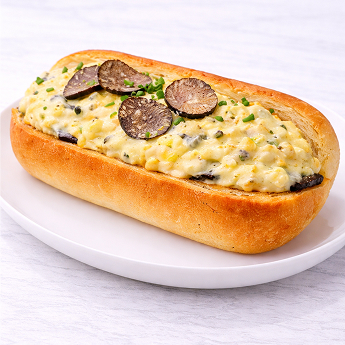
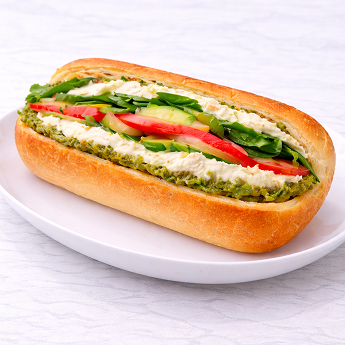
detail.js에 문제있음!!!!

diff --git a/index.html b/index.html
@@ -194,42 +194,42 @@
                     <div class="swiper-wrapper">
                         <div class="swiper-slide">
                             <figure>
-                                <img src="./img/best1.jpg" alt="Maple Bacon B.L.T sandwich">
+                                <img src="./img/sand-blt.jpg" alt="Maple Bacon B.L.T sandwich">
                             </figure>
                             <h4>Maple Bacon B.L.T</h4>
                             <p class="fwm">달콤한 메이플 베이컨과 신선한 야채의 아삭한 조화, 샌디의 정석 클래식</p>
                         </div>
                         <div class="swiper-slide">
                             <figure>
-                                <img src="./img/best2.jpg" alt="Truffle Egg Mayo sandwich">
+                                <img src="./img/sand-truffle.jpg" alt="Truffle Egg Mayo sandwich">
                             </figure>
                             <h4>Truffle Egg Mayo</h4>
                             <p class="fwm">부드러운 에그 마요에 은은한 트러플 풍미를 더한 일상 속 특별한 한 입</p>
                         </div>
                         <div class="swiper-slide">
                             <figure>
-                                <img src="./img/best3.jpg" alt="Mild Chicken Breast sandwich">
+                                <img src="./img/sand-chicken.jpg" alt="Mild Chicken Breast sandwich">
                             </figure>
                             <h4>Mild Chicken Breast</h4>
                             <p class="fwm">담백한 닭가슴살과 신선한 채소로 가볍지만 든든하게 채우는 에너지</p>
                         </div>
                         <div class="swiper-slide">
                             <figure>
-                                <img src="./img/best4.jpg" alt="Steak & Mushroom sandwich">
+                                <img src="./img/sand-steak.jpg" alt="Steak & Mushroom sandwich">
                             </figure>
                             <h4>Steak & Mushroom</h4>
                             <p class="fwm">육즙 가득 스테이크와 볶은 버섯의 깊은 불맛을 담은 프리미엄 멜트</p>
                         </div>
                         <div class="swiper-slide">
                             <figure>
-                                <img src="./img/best5.jpg" alt="Basil Ricotta Veggie sandwich">
+                                <img src="./img/sand-cheese.jpg" alt="Basil Ricotta Veggie sandwich">
                             </figure>
                             <h4>Basil Ricotta Veggie</h4>
                             <p class="fwm">향긋한 바질과 꾸덕한 리코타 치즈가 선사하는 산뜻하고 싱그러운 활력</p>
                         </div>
                         <div class="swiper-slide">
                             <figure>
-                                <img src="./img/best6.jpg" alt="Spicy Chicken Melt sandwich">
+                                <img src="./img/sand-spicy.jpg" alt="Spicy Chicken Melt sandwich">
                             </figure>
                             <h4>Spicy Chicken Melt</h4>
                             <p class="fwm">매콤한 닭다리살과 진한 치즈의 화끈한 만남, 스트레스를 날려줄 풍미</p>

diff --git a/detail.html b/detail.html
@@ -22,55 +22,7 @@
     <div id="include-header"></div>
 
     <main>
-        <div class="product1">
-            <div class="common-frame">
-                <figure class="img-pro-thumb">
-                    <img src="./img/pro-thumb-detail.jpg" alt="그릴드 소세지 샌드위치 썸네일">
-                </figure>
-                <div class="txt-pro">
-                    <!-- 여기도 나중에 사진이랑 글 전체적으로 수정하기!!!!!!!!!!!!!!!!!!!!!!!!!!!!!!!!!!!!! -->
-                    <h1>Grilled Sausage</h1>
-                    <p class="fwm">그릴에서 노릇하게 구워 육즙이 톡 터지는 소세지, 든든한 에너지가 필요한 당신을 위한 완벽한 선택</p>
-                    <dl class="price-table">
-                        <dt>판매가</dt>
-                        <dd>6,500원</dd>
-                        <dt>배송비</dt>
-                        <dd>
-                            1,000원
-                            <span>(15,000원 이상 구매 시 무료)</span>
-                        </dd>
-                    </dl>
-                    <div class="sell-info">
-                        <div class="fwb">그릴드 소세지 샌드위치</div>
-                        <div>
-                            <div class="box-number">
-                                <span class="btn-minus">
-                                    <img src="./img/ic_baseline-minus.svg" alt="감소버튼">
-                                </span>
-                                <span class="current-count">1</span>
-                                <span class="btn-plus">
-                                    <img src="./img/ic_baseline-plus.svg" alt="증가버튼">
-                                </span>
-                            </div>
-                        </div>
-                        <div class="fwb tar">6,500원</div>
-                    </div>
-                    <dl class="price-result">
-                        <dt>전체금액</dt>
-                        <dd>5,500원</dd>
-                    </dl>
-                    <ul class="btns-buy">
-                        <li>
-                            <a href="#">
-                                <img src="./img/icon-heart.svg" alt="관심상품 등록버튼">
-                            </a>
-                        </li>
-                        <li><a href="#">장바구니</a></li>
-                        <li><a href="#">구매하기</a></li>
-                    </ul>
-                </div>
-            </div>
-        </div>
+        <div class="product1"></div>
         <div class="common-frame sticky-menu-wrap">
             <ul class="sticky-menu">
                 <li><a href="#point1">많이 찾는 제품</a></li>

diff --git a/story.html b/story.html
@@ -113,13 +113,13 @@
                         <p class="fwm">언제 어디서나, 당신 곁의 샌디.</p>
                     </div>
                     <div class="iden-right">
-                        <p>
+                        <p class="b2 fwm">
                             잠을 깨우는 아침 식사는 무엇보다 속이 편안해야 합니다. 샌디는 소화가 잘되는 통곡물 빵과 가벼운 스프레드를 활용하여 당신의 아침을 가뿐하고 활기차게 열어드립니다. 자극적이지 않으면서도 필수 영양소를 가득 채운 샌드위치는 바쁜 출근길에 가장 든든한 동반자가 될 것입니다. 이제 복잡한 준비 대신 샌디와 함께 가벼우면서도 확실한 에너지로 하루를 시작해 보세요.
                         </p>
-                        <p>
+                        <p class="b2 fwm">
                             치우기 번거로운 식사는 뒤로하고, 오직 당신의 중요한 업무와 아이디어에만 집중하세요. 한 손에 쏙 들어오는 샌디의 샌드위치는 업무 공간을 깨끗하게 유지하면서도 오후를 견딜 수 있는 고농축 에너지를 제공합니다. 철저하게 계산된 탄단지 밸런스는 식곤증 없이 최상의 컨디션을 유지할 수 있도록 돕는 스마트한 연료가 됩니다. 가장 효율적인 방식으로 당신의 프로페셔널한 일상을 샌디가 든든하게 지원하겠습니다.
                         </p>
-                        <p>
+                        <p class="b2 fwm">
                             건강한 라이프스타일을 유지하는 것은 결코 어려운 일이 아닙니다. 어떤 장소와 시간에서도 당신의 리듬을 방해하지 않는 샌디를 선택하는 것만으로도 당신은 오늘 하루 필요한 균형 잡힌 영양을 모두 섭취한 셈입니다. 사무실 책상 위부터 주말의 여유로운 공원 벤치까지, 샌디가 있는 곳이라면 어디든 당신만을 위한 세련된 다이닝 룸으로 변합니다. 매 순간 더 가볍고 확실한 즐거움을 선사하는 샌디와 함께 당신만의 건강한 루틴을 완성해 보세요.
                         </p>
                     </div>

diff --git a/style/index.css b/style/index.css
@@ -105,8 +105,7 @@
 }
 
 .menu-frame h1+p{ 
-    /* 이거 하면 샌드위치 사진 위로 마진이 생기는데 나는 샌드위치 사진 속에 배경이 없어서 하면 공간이 넓어보임. 안 해도 될듯 */
-    /* margin-bottom: var(--space-x-large); */
+    margin-bottom: var(--space-large);
 }
 
 .menu-frame .swiper-slide h4{
